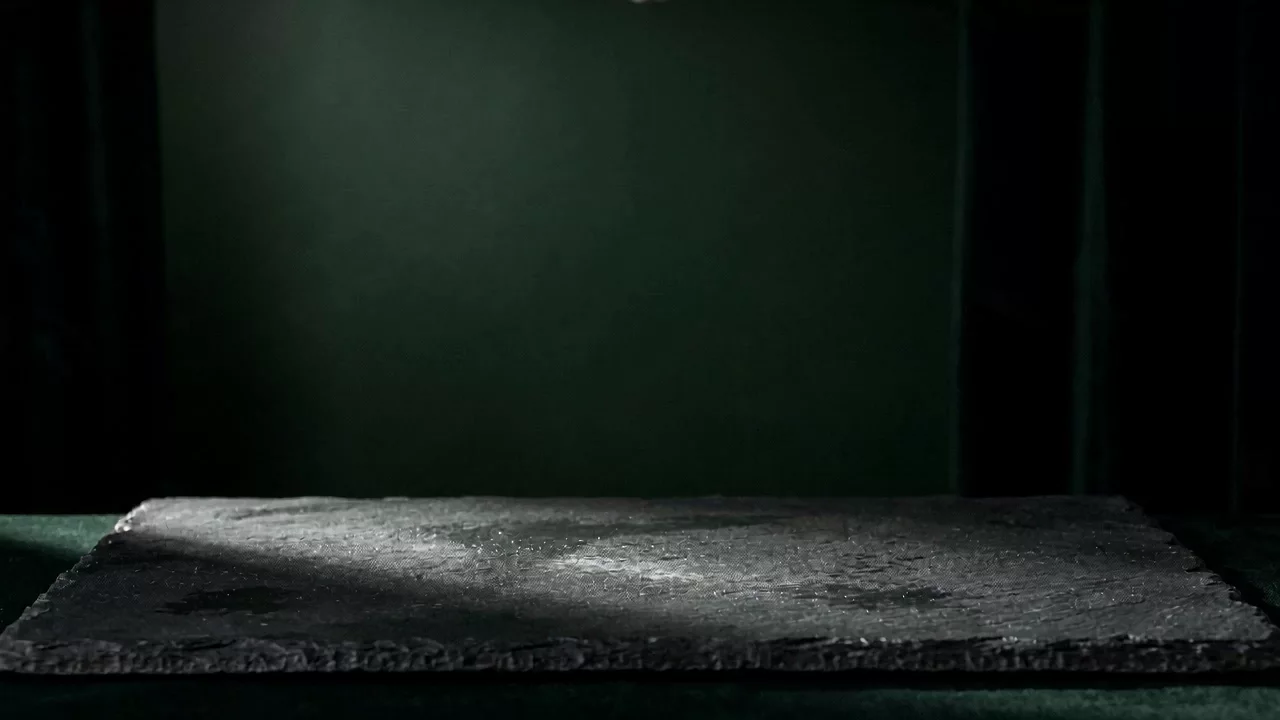
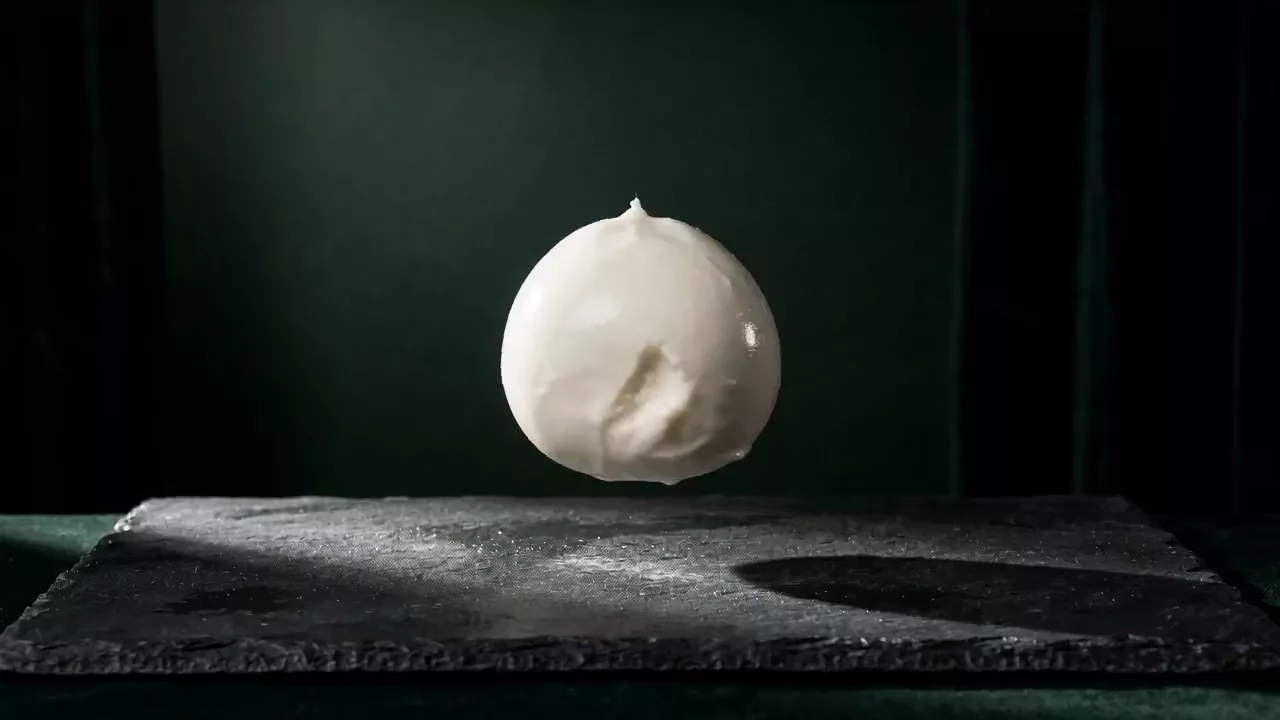
Sblocca il filmato su iPhone e cambia il poster
Safari su iOS non scarica un video finche' l'utente non ha interagito con
la pagina, e su rete cellulare ignora del tutto preload="auto". I metadati
non arrivavano mai, la durata restava NaN, e `render` usciva prima di
toccare il filmato: chi guardava vedeva solo il poster e concludeva,
giustamente, che il video non c'era.

Al primo tocco (o al primo scroll) si fa un play seguito subito da un
pause: e' quello che autorizza l'elemento a scaricare e a spostarsi nel
tempo. Il filmato non parte davvero — viene fermato nello stesso istante,
e il suo tempo resta lo scroll. E' muto e playsInline, quindi iOS lo
consente senza aprire il lettore a tutto schermo.

Aggiunti anche loadeddata e canplay come segnali di prontezza:
loadedmetadata da solo non basta su tutti i browser.

Il poster passa dal primo fotogramma (set vuoto, per costruzione) a un
istante in cui il soggetto si vede: se il filmato non parte comunque,
resta una mozzarella invece del nulla.

Claude-Session: https://claude.ai/code/session_01XiGu4PCqbVdJtFDzkD4kZM

diff --git a/components/bufala/Video.tsx b/components/bufala/Video.tsx
@@ -48,12 +48,47 @@ export function Video({ webm, mp4, poster }: VideoProps) {
       player.pronto = true;
     };
     v.addEventListener('loadedmetadata', pronto);
+    v.addEventListener('loadeddata', pronto);
+    v.addEventListener('canplay', pronto);
     // Alcuni browser non emettono `loadedmetadata` se il video è già in
     // cache: se la durata c'è già, siamo pronti comunque.
     if (v.readyState >= 1) pronto();
 
+    // Lo sblocco per iPhone.
+    //
+    // Safari su iOS non scarica un video finché l'utente non ha interagito
+    // con la pagina, e su rete cellulare lo fa ancora meno: `preload="auto"`
+    // viene semplicemente ignorato. Il risultato è che i metadati non
+    // arrivano mai, la durata resta NaN, `render` esce subito e il filmato
+    // non si muove di un fotogramma — chi guarda vede solo il poster e
+    // conclude, giustamente, che il video non c'è.
+    //
+    // Un play seguito subito da un pause al primo tocco autorizza l'elemento
+    // a scaricare e a spostarsi nel tempo. Il video non parte davvero: viene
+    // fermato nello stesso istante, e da lì in poi il suo tempo torna a
+    // essere solo lo scroll. È muto e `playsInline`, quindi iOS lo consente
+    // senza chiedere niente e senza aprire il lettore a tutto schermo.
+    const sblocca = () => {
+      v.load();
+      const avvio = v.play();
+      if (avvio && typeof avvio.then === 'function') {
+        avvio.then(() => v.pause()).catch(() => {});
+      } else {
+        v.pause();
+      }
+    };
+    const opzioni = { once: true, passive: true } as const;
+    window.addEventListener('touchstart', sblocca, opzioni);
+    window.addEventListener('pointerdown', sblocca, opzioni);
+    window.addEventListener('scroll', sblocca, opzioni);
+
     return () => {
       v.removeEventListener('loadedmetadata', pronto);
+      v.removeEventListener('loadeddata', pronto);
+      v.removeEventListener('canplay', pronto);
+      window.removeEventListener('touchstart', sblocca);
+      window.removeEventListener('pointerdown', sblocca);
+      window.removeEventListener('scroll', sblocca);
       player.el = null;
       player.pronto = false;
     };
